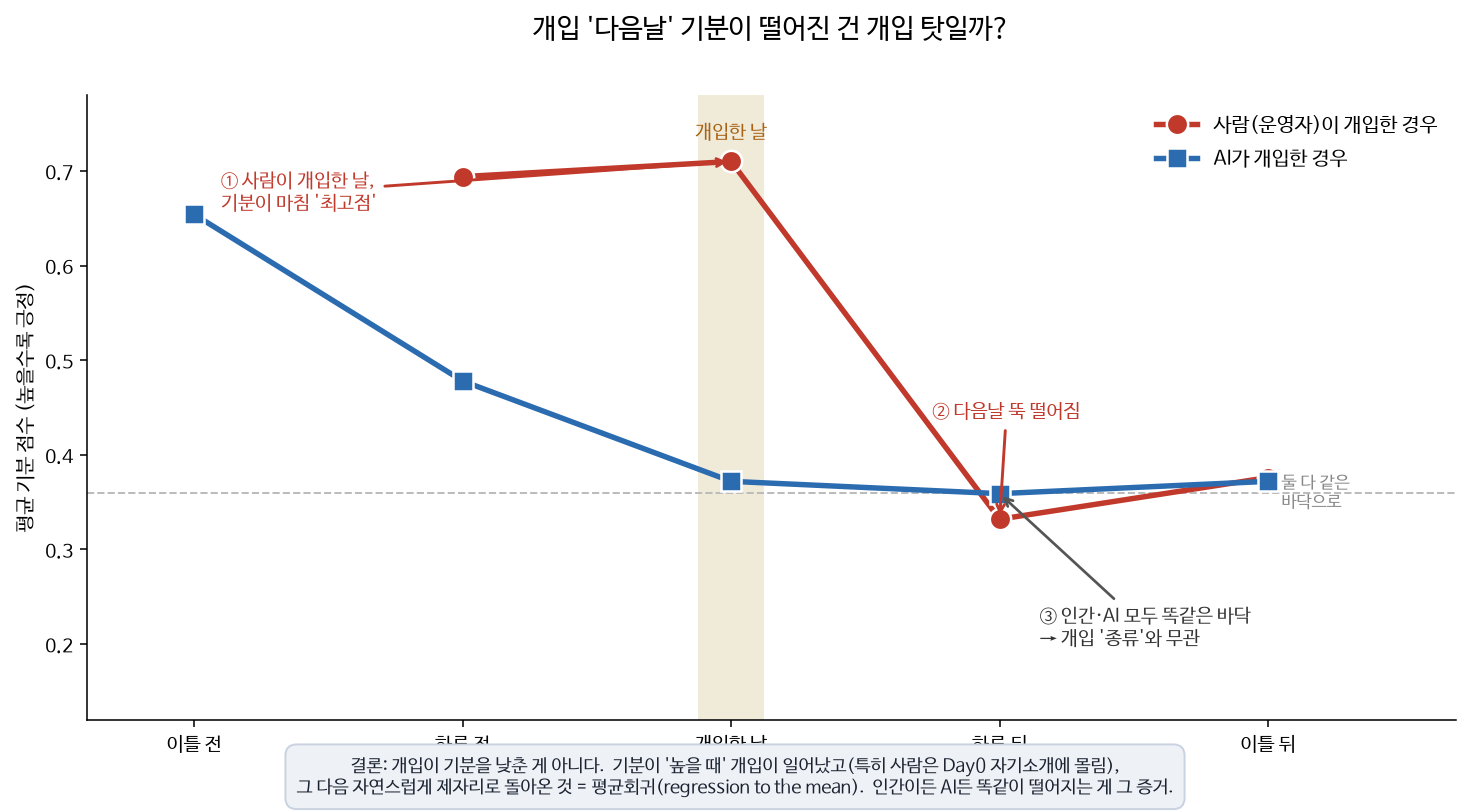
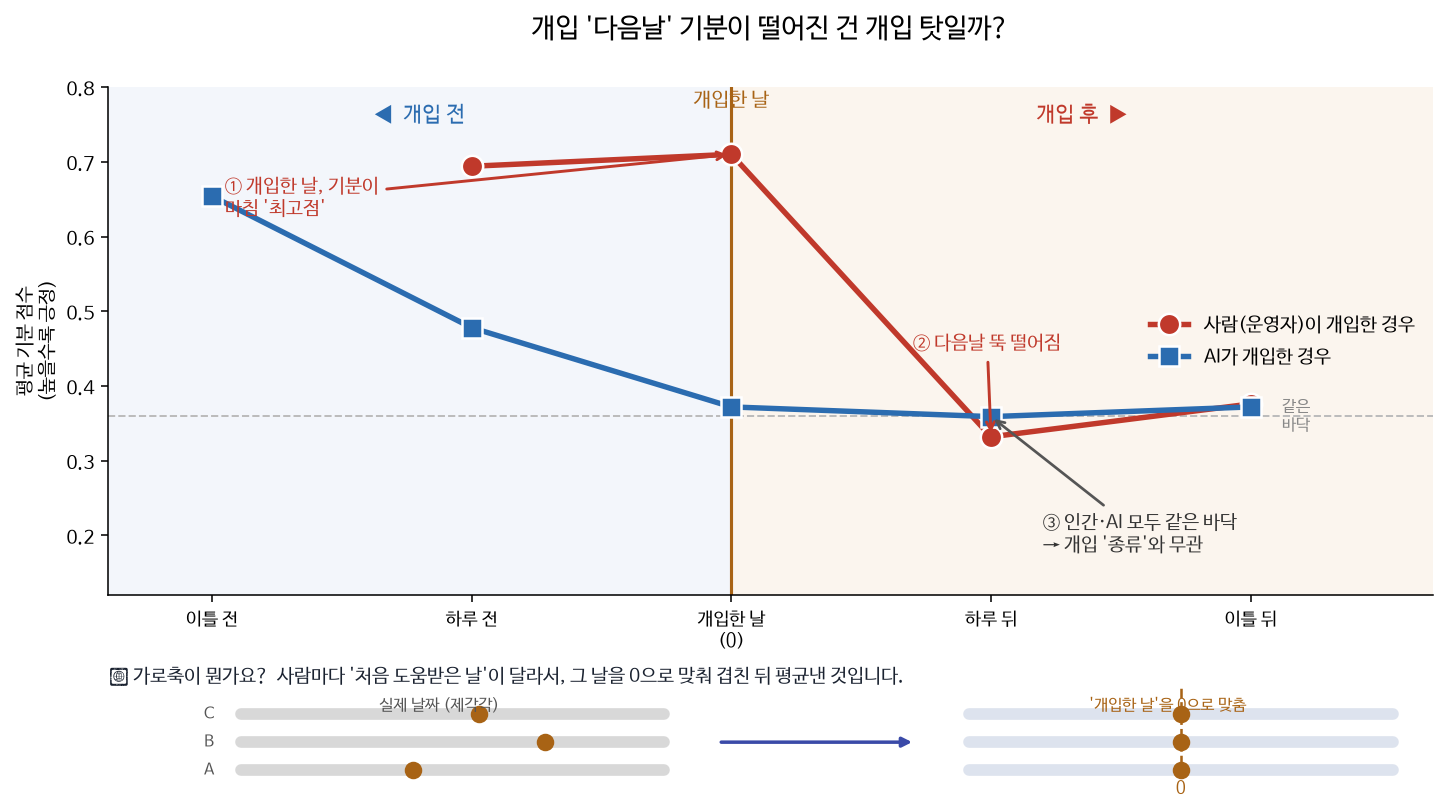
이벤트스터디 그래프에 X축(정렬) 설명 추가
- 개입 전/후 배경 구분 + ◀개입 전 / 개입 후▶ 라벨
- 하단 인셋: 참가자마다 '처음 개입일'이 제각각(다른 날짜) →
  0으로 맞춰 겹침, 이라는 정렬 개념을 도식으로 설명
- 가로축이 '개입 기준 상대 날짜'임을 그림 안에서 바로 이해되게

Claude-Session: https://claude.ai/code/session_01Ez2v8FtGKkA7BynEvbrd89

diff --git a/analysis/make_eventstudy_easy_fig.py b/analysis/make_eventstudy_easy_fig.py
@@ -8,50 +8,60 @@ for p in ["/usr/share/fonts/truetype/nanum/NanumBarunGothic.ttf","/usr/share/fon
 plt.rcParams["axes.unicode_minus"]=False
 FD="/home/user/skku-research-methods-study-site/analysis/figures"
 
-# 실제 파이프라인 출력값
 h_x=[-1,0,1,2];  h_y=[0.694,0.710,0.332,0.376]
 a_x=[-2,-1,0,1,2]; a_y=[0.654,0.478,0.372,0.359,0.372]
 
 with warnings.catch_warnings():
     warnings.simplefilter("ignore")
-    fig,ax=plt.subplots(figsize=(10.6,5.6),dpi=140)
-    # 개입한 날 세로 띠
-    ax.axvspan(-0.12,0.12,color="#f0ead9",zorder=0)
-    ax.text(0,0.735,"개입한 날",ha="center",fontsize=10,color="#a86315",fontweight="bold")
-    # 공통 바닥선
+    fig=plt.figure(figsize=(11,6.6),dpi=140)
+    ax=fig.add_axes([0.09,0.30,0.86,0.55])   # 메인
+    # 개입 전/후 배경
+    ax.axvspan(-2.4,0,color="#f3f6fb",zorder=0)
+    ax.axvspan(0,2.7,color="#fbf5ee",zorder=0)
+    ax.axvline(0,color="#a86315",lw=1.6,zorder=1)
+    ax.text(-1.2,0.755,"◀  개입 전",ha="center",fontsize=11,color="#2b6cb0",fontweight="bold")
+    ax.text(0,0.775,"개입한 날",ha="center",fontsize=10.5,color="#a86315",fontweight="bold")
+    ax.text(1.35,0.755,"개입 후  ▶",ha="center",fontsize=11,color="#c0392b",fontweight="bold")
     ax.axhline(0.36,color="#bbb",lw=1,ls="--",zorder=1)
-    ax.text(2.05,0.36,"둘 다 같은\n바닥으로",fontsize=8.6,color="#888",va="center")
+    ax.text(2.12,0.36,"같은\n바닥",fontsize=8.4,color="#888",va="center")
 
     ax.plot(h_x,h_y,"-o",color="#c0392b",lw=2.8,ms=11,label="사람(운영자)이 개입한 경우",zorder=3,markeredgecolor="white",markeredgewidth=1.3)
     ax.plot(a_x,a_y,"-s",color="#2b6cb0",lw=2.8,ms=10,label="AI가 개입한 경우",zorder=3,markeredgecolor="white",markeredgewidth=1.3)
 
-    # 주석 ①: 개입한 날 최고점
-    ax.annotate("① 사람이 개입한 날,\n기분이 마침 '최고점'",xy=(0,0.710),xytext=(-1.9,0.66),
-                fontsize=10,color="#c0392b",fontweight="bold",
-                arrowprops=dict(arrowstyle="->",color="#c0392b",lw=1.5))
-    # 주석 ②: 다음날 뚝
-    ax.annotate("② 다음날 뚝 떨어짐",xy=(1,0.332),xytext=(0.75,0.44),
-                fontsize=10,color="#c0392b",fontweight="bold",
-                arrowprops=dict(arrowstyle="->",color="#c0392b",lw=1.5))
-    # 주석 ③: 둘 다 같은 바닥
-    ax.annotate("③ 인간·AI 모두 똑같은 바닥\n→ 개입 '종류'와 무관",xy=(1,0.359),xytext=(1.15,0.20),
-                fontsize=10,color="#333",fontweight="bold",
-                arrowprops=dict(arrowstyle="->",color="#555",lw=1.4))
+    ax.annotate("① 개입한 날, 기분이\n마침 '최고점'",xy=(0,0.710),xytext=(-1.95,0.63),
+                fontsize=10,color="#c0392b",fontweight="bold",arrowprops=dict(arrowstyle="->",color="#c0392b",lw=1.5))
+    ax.annotate("② 다음날 뚝 떨어짐",xy=(1,0.332),xytext=(0.7,0.45),
+                fontsize=10,color="#c0392b",fontweight="bold",arrowprops=dict(arrowstyle="->",color="#c0392b",lw=1.5))
+    ax.annotate("③ 인간·AI 모두 같은 바닥\n→ 개입 '종류'와 무관",xy=(1,0.359),xytext=(1.2,0.18),
+                fontsize=10,color="#333",fontweight="bold",arrowprops=dict(arrowstyle="->",color="#555",lw=1.4))
 
-    ax.set_xlim(-2.4,2.7); ax.set_ylim(0.12,0.78)
-    ax.set_xticks([-2,-1,0,1,2])
-    ax.set_xticklabels(["이틀 전","하루 전","개입한 날","하루 뒤","이틀 뒤"],fontsize=10)
-    ax.set_ylabel("평균 기분 점수 (높을수록 긍정)",fontsize=10.5)
-    ax.set_title("개입 '다음날' 기분이 떨어진 건 개입 탓일까?",fontsize=14,fontweight="bold",pad=30)
-    ax.legend(frameon=False,fontsize=10.5,loc="upper right")
+    ax.set_xlim(-2.4,2.7); ax.set_ylim(0.12,0.80)
+    ax.set_xticks([-2,-1,0,1,2]); ax.set_xticklabels(["이틀 전","하루 전","개입한 날\n(0)","하루 뒤","이틀 뒤"],fontsize=9.5)
+    ax.set_ylabel("평균 기분 점수\n(높을수록 긍정)",fontsize=10)
+    ax.set_title("개입 '다음날' 기분이 떨어진 건 개입 탓일까?",fontsize=14,fontweight="bold",pad=26)
+    ax.legend(frameon=False,fontsize=10,loc="center right")
     for s in ("top","right"): ax.spines[s].set_visible(False)
 
-    # 하단 결론 박스
-    fig.text(0.5,-0.02,
-      "결론: 개입이 기분을 낮춘 게 아니다.  기분이 '높을 때' 개입이 일어났고(특히 사람은 Day0 자기소개에 몰림),\n"
-      "그 다음 자연스럽게 제자리로 돌아온 것 = 평균회귀(regression to the mean).  인간이든 AI든 똑같이 떨어지는 게 그 증거.",
-      ha="center",fontsize=9.5,color="#1a2230",
-      bbox=dict(boxstyle="round,pad=0.6",fc="#eef1f6",ec="#c9d2e0"))
-    fig.tight_layout()
+    # ── X축 설명(정렬 개념) 하단 인셋 ──
+    axx=fig.add_axes([0.09,0.085,0.86,0.14]); axx.axis("off")
+    axx.set_xlim(0,10); axx.set_ylim(0,3)
+    axx.text(0.0,2.6,"📌 가로축이 뭔가요?  사람마다 '처음 도움받은 날'이 달라서, 그 날을 0으로 맞춰 겹친 뒤 평균낸 것입니다.",
+             fontsize=9.6,color="#1a2230",fontweight="bold")
+    axx.text(2.5,1.95,"실제 날짜 (제각각)",ha="center",fontsize=8,color="#555",style="italic")
+    axx.text(8.0,1.95,"'개입한 날'을 0으로 맞춤",ha="center",fontsize=8,color="#a86315",style="italic",fontweight="bold")
+    # 왼쪽: 처음 개입일이 서로 다른 위치
+    demo=[("A",0.55,2.3),("B",1.20,3.3),("C",1.85,2.8)]
+    for nm,y,xd in demo:
+        axx.plot([1.0,4.2],[y,y],color="#d8d8d8",lw=6,solid_capstyle="round")
+        axx.plot(xd,y,"o",color="#a86315",ms=8)
+        axx.text(0.8,y,nm,ha="right",va="center",fontsize=8,color="#555")
+    axx.annotate("",xy=(6.1,1.2),xytext=(4.6,1.2),arrowprops=dict(arrowstyle="-|>",color="#3a4aa8",lw=1.8))
+    # 오른쪽: 모두 같은 위치(정렬됨)
+    for nm,y,_ in demo:
+        axx.plot([6.5,9.7],[y,y],color="#dde3ee",lw=6,solid_capstyle="round")
+        axx.plot(8.1,y,"o",color="#a86315",ms=8)
+    axx.axvline(8.1,ymin=0.12,ymax=0.82,color="#a86315",lw=1.3,ls="--")
+    axx.text(8.1,0.02,"0",ha="center",fontsize=8.5,color="#a86315",fontweight="bold")
+
     fp=f"{FD}/fig20_eventstudy_easy.png"; fig.savefig(fp,bbox_inches="tight"); plt.close(fig)
 print("saved",fp)
